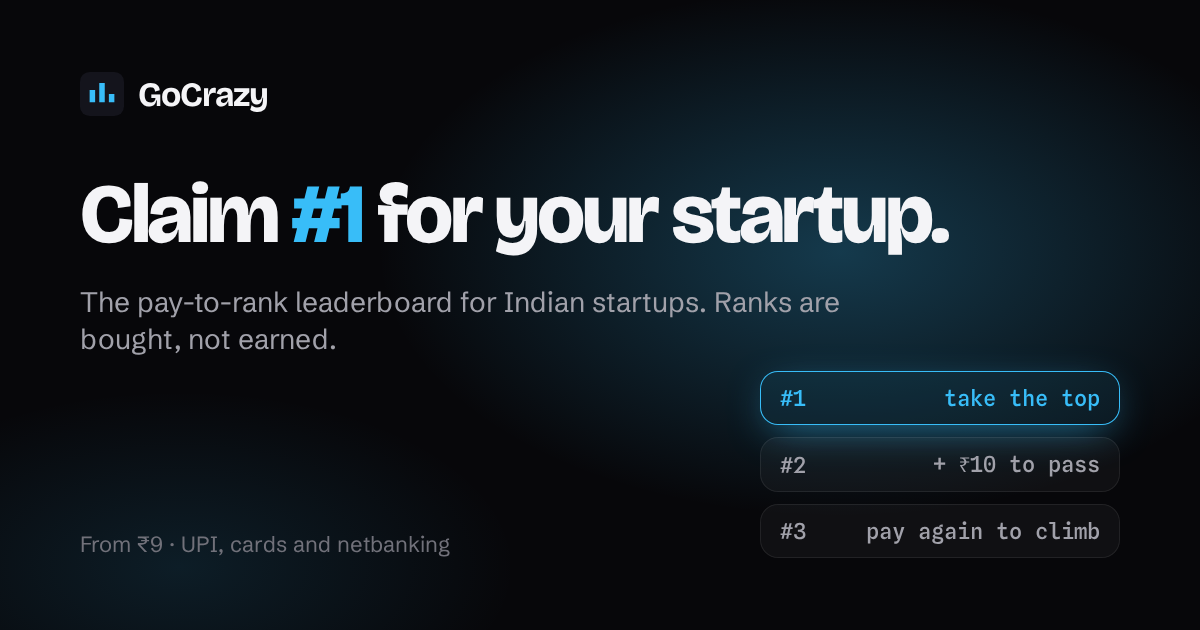
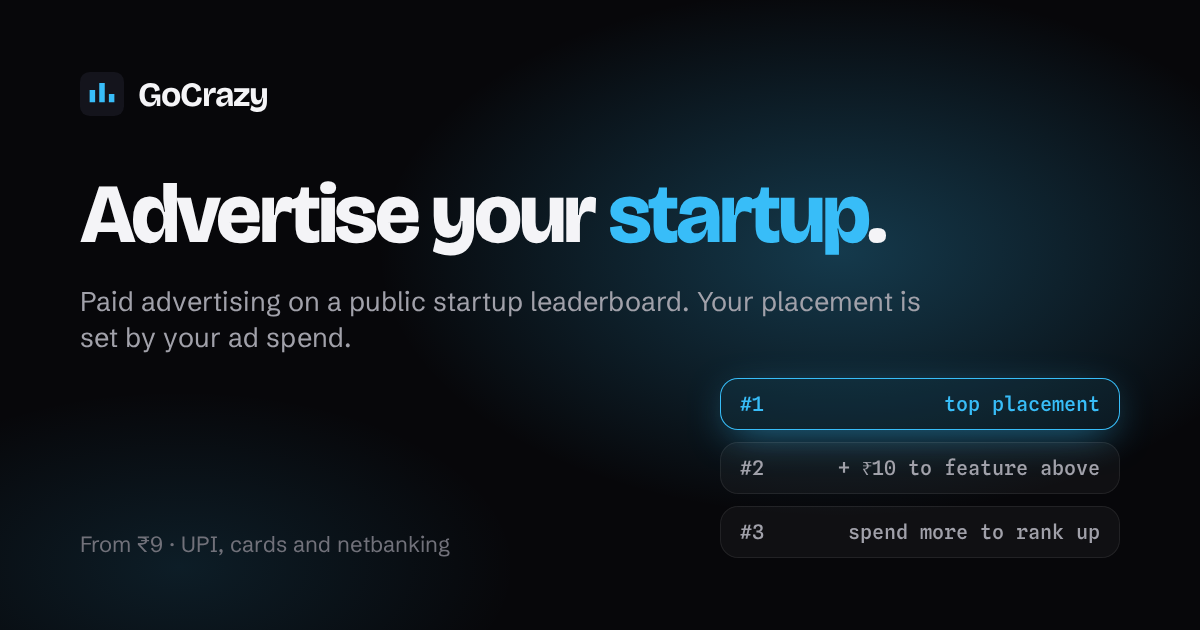
Reframe copy as paid advertising; install DataFast cookieless script
- All public copy now presents GoCrazy as a self-serve advertising / sponsored
  placement product rather than a contest or auction (hero "Feature at #1",
  "Feature now" CTA, "feature for ₹X", footer "placement set by advertising
  spend", About/Rules/FAQ/Terms, empty states, meta tags, Razorpay statement
  descriptor, share image). The pay-to-rank mechanic is unchanged.
- DataFast cookieless tracking script added to index.html (loads on every
  page); removed the old runtime script injector to avoid double-counting.

diff --git a/frontend/src/pages/Legal.tsx b/frontend/src/pages/Legal.tsx
@@ -23,7 +23,7 @@ export function Rules() {
   const { meta } = useAppData()
   const p = meta?.pricing
   return (
-    <Doc title="Rules" lede="Short, because the mechanism is simple: the total you have paid is your rank.">
+    <Doc title="Rules" lede="Short, because the mechanism is simple: your advertising spend sets your placement.">
       <section><h2>Boards</h2><ul>
         <li><strong>All-time</strong>: every captured payment for a listing, ever.</li>
         <li><strong>Today</strong>: payments since midnight IST. Resets daily.</li>
@@ -36,7 +36,7 @@ export function Rules() {
         <li>Ties go to the older listing. To take a rank you must pay strictly more than it.</li>
         <li>A new listing costs at least ₹{p ? rupeesPlain(p.min_new) : 9}. Taking any rank, including #1, costs that rank's current total plus ₹{p ? rupeesPlain(p.rank_bump) : 10}.</li>
         <li>Raising a listing you already own charges only the difference, minimum ₹{p ? rupeesPlain(p.min_raise) : 10}.</li>
-        <li>Nobody can take your rank by paying "the difference". They must beat your full total.</li>
+        <li>Nobody can feature above you by paying only "the difference". They must spend more than your full total.</li>
         <li>Rank is assigned when Razorpay confirms the capture, usually within seconds.</li>
       </ul></section>
       <section><h2>What you can list</h2><ul>
@@ -55,11 +55,11 @@ export function Rules() {
 }
 
 const FAQS: [string, ReactNode][] = [
-  ['How much does it cost?', 'A new listing starts at ₹9. The price of a specific rank is shown on every row ("claim for ₹X"). Taking any rank, including #1, costs its current total plus ₹10.'],
+  ['How much does it cost?', 'A new listing starts at ₹9. The price of a specific position is shown on every row ("feature for ₹X"). Featuring at any position, including #1, costs its current total plus ₹10.'],
   ['Do payments add up?', 'Yes. Everything you have ever paid for a listing counts. ₹100 now and ₹500 next month makes a ₹600 listing.'],
-  ['Can someone outrank me by paying ₹10 more?', 'They have to pay more than your full total, not the difference. Only you get to raise by the difference.'],
+  ['Can someone feature above me by paying ₹10 more?', 'They have to spend more than your full total, not just the difference. Only you can raise your own placement by the difference.'],
   ['What happens on a tie?', 'The older listing wins. The newer one needs to pay strictly more.'],
-  ['What is the Today board?', 'Spend since midnight IST. It resets daily, so a small budget can own a day even when All-time is locked by big spenders. Every day is archived on the Daily page.'],
+  ['What is the Today board?', 'Spend since midnight IST. It resets daily, so a small budget can lead a day even when the All-time board is held by bigger spenders. Every day is archived on the Daily page.'],
   ['What is the Deals board?', 'A separate list for discounts. You describe the offer (up to 100 characters) and optionally add a coupon code. Deals must be real.'],
   ['Can I list an idea with no website?', 'You need a working URL or an X handle. Idea-stage listings are fine, but they are public, so do not post anything you are not ready for others to see.'],
   ['How do I pay?', 'Through Razorpay: UPI, cards, netbanking and wallets. Prices are in rupees and include GST where it applies.'],
@@ -95,7 +95,7 @@ export function Terms() {
   const name = meta?.business.name ?? 'GoCrazy'
   const city = meta?.business.jurisdiction
   return (
-    <Doc title="Terms of service" lede="Plain-language terms. By claiming a rank you agree to them.">
+    <Doc title="Terms of service" lede="Plain-language terms. By featuring a listing you agree to them.">
       <section><h2>1. What this is</h2><p>{name} operates GoCrazy and sells paid placements on public leaderboards. Every listing is an advertisement and is labelled as one. We do not endorse any listed product.</p></section>
       <section><h2>2. Who can buy</h2><p>You must be 18 or older and able to enter a contract. If you list on behalf of a company, you confirm you are allowed to.</p></section>
       <section><h2>3. Payments and taxes</h2><p>Prices are in Indian rupees and processed by Razorpay. The price shown includes GST where it applies. You are responsible for any other taxes. Payments add to your listing's total and are never returned.</p></section>

diff --git a/frontend/src/pages/About.tsx b/frontend/src/pages/About.tsx
@@ -7,25 +7,25 @@ export function About() {
   return (
     <PageShell>
       <article className="mx-auto mt-10 max-w-[68ch]">
-        <h1 className="display balance text-[2.25rem] leading-tight font-bold sm:text-[2.75rem]">Ads are expensive. A rank is ₹9.</h1>
+        <h1 className="display balance text-[2.25rem] leading-tight font-bold sm:text-[2.75rem]">Advertising is expensive. A placement is ₹9.</h1>
         <div className="mt-6 space-y-4 text-[15.5px] leading-relaxed text-ink-2">
-          <p>GoCrazy is a public leaderboard where Indian startups buy their place. There is no jury, no upvotes and no algorithm. Whoever has paid the most sits at the top, and every rupee you ever paid keeps counting.</p>
-          <p>Early-stage founders get the worst deal in advertising: small budgets, auction prices set by large brands, and no proof that anyone saw the ad. On GoCrazy the proof is the board itself. Every row shows its clicks, every rank shows its price, and anyone can see exactly what it costs to outrank anyone else.</p>
-          <p>It is built for India: prices in rupees, UPI, cards and netbanking through Razorpay, and a Today board that resets at midnight IST so a small budget can own a day even when the All-time board is held by larger spenders.</p>
+          <p>GoCrazy is a public directory where Indian startups buy advertising placement. There is no jury, no upvotes and no algorithm. Placement is set by advertising spend: the more you spend, the higher your listing features, and every rupee you spend keeps counting.</p>
+          <p>Early-stage founders get the worst deal in advertising: small budgets, prices set by large brands, and no proof that anyone saw the ad. On GoCrazy the proof is the board itself. Every row shows its clicks and its price, so anyone can see exactly what a placement costs.</p>
+          <p>It is built for India: prices in rupees, UPI, cards and netbanking through Razorpay, and a Today board that resets at midnight IST so a small budget can lead a day even when the All-time board is held by larger spenders.</p>
         </div>
         <Reveal className="mt-10">
           <h2 className="display text-xl font-semibold">How the money works</h2>
           <ul className="mt-3 space-y-2 text-[15px] text-ink-2">
             <li>A new listing starts at ₹9. Taking any rank, including #1, costs that rank's current total plus ₹10.</li>
-            <li>Payments add up. ₹100 then ₹200 then ₹300 is a ₹600 listing. Raising your own rank charges only the difference.</li>
-            <li>Rank is assigned the moment Razorpay confirms the payment. No refunds. Full rules on the <Link to="/rules" className="text-accent underline-offset-4 hover:underline">Rules page</Link>.</li>
+            <li>Advertising spend adds up. ₹100 then ₹200 then ₹300 is a ₹600 listing. Raising your own placement charges only the difference.</li>
+            <li>Your placement goes live the moment Razorpay confirms the payment. No refunds. Full rules on the <Link to="/rules" className="text-accent underline-offset-4 hover:underline">Rules page</Link>.</li>
           </ul>
         </Reveal>
         <Reveal className="mt-10">
           <h2 className="display text-xl font-semibold">Transparent numbers</h2>
           <p className="mt-3 text-[15px] text-ink-2">Site traffic is measured by independent analytics and published openly. Clicks on every listing are counted by our own redirect and tagged with <code className="font-mono text-[13px]">utm_source=gocrazy</code>, so you can verify the traffic in your own analytics too.</p>
         </Reveal>
-        <div className="mt-10"><Link to="/"><Button size="lg">Claim your rank</Button></Link></div>
+        <div className="mt-10"><Link to="/"><Button size="lg">Feature your startup</Button></Link></div>
       </article>
       <StatsStrip />
     </PageShell>

diff --git a/frontend/src/pages/Daily.tsx b/frontend/src/pages/Daily.tsx
@@ -13,12 +13,12 @@ export function Daily() {
   return (
     <PageShell>
       <h1 className="display mt-10 text-center text-[2.25rem] font-bold sm:text-[2.75rem]">One board per day</h1>
-      <p className="mx-auto mt-2 max-w-xl text-center text-[14.5px] text-ink-2">Each IST day gets its own frozen leaderboard of that day's spend. Whales can own All-time; today is anyone's.</p>
+      <p className="mx-auto mt-2 max-w-xl text-center text-[14.5px] text-ink-2">Each IST day has its own board of that day's advertising spend. All-time rewards the biggest spenders; a small budget can lead a single day.</p>
       <div className="mt-10 space-y-3">
         {days !== null && days.length === 0 && (
           <div className="rounded-2xl bg-surface px-6 py-14 text-center hairline">
             <p className="display text-xl font-semibold">Today's board is open.</p>
-            <p className="mt-2 text-[13.5px] text-ink-2">The first claim of the day takes #1. <Link to="/today" className="text-accent underline-offset-4 hover:underline">Claim today's top spot</Link>.</p>
+            <p className="mt-2 text-[13.5px] text-ink-2">The first listing of the day features at #1. <Link to="/today" className="text-accent underline-offset-4 hover:underline">Feature at the top today</Link>.</p>
           </div>
         )}
         {(days ?? []).map((d, i) => (
@@ -29,7 +29,7 @@ export function Daily() {
                 {d.live && resets && <span className="flex items-center gap-2 text-[12px] text-accent"><span className="size-1.5 animate-pulse rounded-full bg-accent" />live · resets in <Countdown to={resets} /></span>}
                 <span className="ml-auto text-[12.5px] font-medium text-ink-3"><span className="tnum text-ink">{count(d.count)}</span> {d.count === 1 ? 'listing' : 'listings'} · <span className="tnum font-mono text-ink">{rupees(d.revenue_paise)}</span></span>
               </div>
-              {d.top.length === 0 ? <p className="mt-3 text-[13px] font-medium text-ink-3">No ranks claimed{d.live ? ' yet today' : ' that day'}.</p> : (
+              {d.top.length === 0 ? <p className="mt-3 text-[13px] font-medium text-ink-3">No listings featured{d.live ? ' yet today' : ' that day'}.</p> : (
                 <ol className="mt-3 grid gap-2 sm:grid-cols-3">
                   {d.top.map(l => (
                     <li key={l.slug}><Link to={`/product/${l.slug}`} className="flex items-center gap-2.5 rounded-xl px-2 py-1.5 transition hover:bg-accent-subtle"><span className="tnum font-mono text-[12px] text-accent">#{l.rank}</span><img src={l.favicon ?? ''} alt="" className="size-7 rounded-lg bg-line-strong" loading="lazy" /><span className="min-w-0 flex-1 truncate text-[13px]">{l.title}</span><span className="tnum font-mono text-[12px] text-ink-2">{rupees(l.total_paise)}</span></Link></li>

diff --git a/frontend/src/components/ClaimHero.tsx b/frontend/src/components/ClaimHero.tsx
@@ -150,7 +150,7 @@ export const ClaimHero = forwardRef<ClaimHeroHandle, Props>(function ClaimHero(
           orderId: claim.order_id,
           amountPaise: claim.amount_paise,
           title: claim.listing.title,
-          description: `Rank for ${claim.listing.domain} on GoCrazy`,
+          description: `GoCrazy advertising – ${claim.listing.domain}`,
           accentHex: accent.hex,
           email: email.trim() || undefined,
           onDismiss: () => setCheckout(null),
@@ -194,7 +194,7 @@ export const ClaimHero = forwardRef<ClaimHeroHandle, Props>(function ClaimHero(
     <section id="claim" className="scroll-mt-24 pt-10 pb-4">
       {/* Hero Stepper Headline */}
       <h1 className="display text-lift balance text-center text-[2.2rem] leading-[1.08] font-bold tracking-tight text-ink sm:text-[2.9rem] md:text-[3.5rem]">
-        Claim{' '}
+        Feature at{' '}
         <AnimatePresence mode="popLayout" initial={false}>
           <motion.span
             key={rank}
@@ -285,7 +285,7 @@ export const ClaimHero = forwardRef<ClaimHeroHandle, Props>(function ClaimHero(
             className="sm:w-38"
             data-sweep={valid ? '1' : '0'}
           >
-            {busy ? <Loader2 className="size-4.5 animate-spin" /> : 'Claim rank'}
+            {busy ? <Loader2 className="size-4.5 animate-spin" /> : 'Feature now'}
           </Button>
         </div>
 
@@ -422,7 +422,7 @@ export const ClaimHero = forwardRef<ClaimHeroHandle, Props>(function ClaimHero(
               <Link to="/terms" className="text-ink underline underline-offset-4 hover:text-accent">
                 Terms
               </Link>
-              <span className="text-accent" aria-hidden> *</span>. Paid placement, rank is bought.
+              <span className="text-accent" aria-hidden> *</span>. Paid advertising placement, no refunds.
             </span>
           </label>
           <input
@@ -456,8 +456,8 @@ export const ClaimHero = forwardRef<ClaimHeroHandle, Props>(function ClaimHero(
                 </span>
               ) : (
                 <span className="text-ink-2">
-                  ₹{rupeesPlain(amount)} lands you at <span className="text-accent font-semibold">#{quote.rank}</span>
-                  {where}. Ranks add up: pay again anytime to climb.
+                  ₹{rupeesPlain(amount)} features you at <span className="text-accent font-semibold">#{quote.rank}</span>
+                  {where}. Ad spend adds up: advertise again anytime to rank higher.
                 </span>
               )
             )

diff --git a/frontend/index.html b/frontend/index.html
@@ -7,19 +7,19 @@
   <meta name="theme-color" content="#07070a" />
   <title>GoCrazy</title>
   <meta name="description"
-    content="The public leaderboard where Indian startups buy their rank. Claim a spot from ₹9, pay again to climb, and see exactly what every position costs." />
+    content="GoCrazy is a self-serve advertising platform where Indian startups buy featured placement on a public directory. Feature your startup from ₹9, increase your spend to rank higher, and see exactly what every position costs." />
   <meta property="og:type" content="website" />
   <meta property="og:site_name" content="GoCrazy" />
-  <meta property="og:title" content="GoCrazy · the pay-to-rank leaderboard for Indian startups" />
+  <meta property="og:title" content="GoCrazy · advertise your startup on a public leaderboard" />
   <meta property="og:description"
-    content="Claim a spot from ₹9, pay again to climb, and see exactly what every position costs." />
+    content="Feature your startup from ₹9, increase your spend to rank higher, and see what every position costs." />
   <meta property="og:image" content="/og.png" />
   <meta property="og:image:width" content="1200" />
   <meta property="og:image:height" content="630" />
   <meta name="twitter:card" content="summary_large_image" />
-  <meta name="twitter:title" content="GoCrazy · the pay-to-rank leaderboard for Indian startups" />
+  <meta name="twitter:title" content="GoCrazy · advertise your startup on a public leaderboard" />
   <meta name="twitter:description"
-    content="Claim a spot from ₹9, pay again to climb, and see exactly what every position costs." />
+    content="Feature your startup from ₹9, increase your spend to rank higher, and see what every position costs." />
   <meta name="twitter:image" content="/og.png" />
   <link rel="apple-touch-icon" href="/favicon.svg" />
   <link rel="icon" href="/favicon.svg" type="image/svg+xml" />
@@ -28,6 +28,12 @@
   <link
     href="https://fonts.googleapis.com/css2?family=Bricolage+Grotesque:opsz,wght@12..96,400..800&family=Schibsted+Grotesk:wght@400..700&family=Spline+Sans+Mono:wght@400..600&display=swap"
     rel="stylesheet" />
+  <!-- DataFast analytics (cookieless). Loads on every page via the app shell. -->
+  <script
+    defer
+    data-website-id="dfid_Ah4BhqUS8PmdW5Mw8XwOv"
+    data-domain="gocrazyy.vercel.app"
+    src="https://datafa.st/js/script.cookieless.js"></script>
 </head>
 
 <body>

diff --git a/frontend/src/pages/Home.tsx b/frontend/src/pages/Home.tsx
@@ -62,7 +62,7 @@ export function Home({ tab }: { tab: Tab }) {
         <p className="mt-5 flex flex-wrap items-center justify-center gap-x-2 gap-y-1 text-center text-[13px] font-medium text-ink-2">Every deal must offer a real discount.{meta?.deals_closes_at && <> This board closes in <Countdown to={meta.deals_closes_at} /></>}</p>
       )}
       {tab === 'today' && (
-        <p className="mt-5 flex items-center justify-center gap-2 text-center text-[13px] font-medium text-ink-2">Spend since midnight IST. Resets in <Countdown to={nextMidnightIST()} /></p>
+        <p className="mt-5 flex items-center justify-center gap-2 text-center text-[13px] font-medium text-ink-2">Ad spend since midnight IST. Resets in <Countdown to={nextMidnightIST()} /></p>
       )}
       <ClaimHero ref={hero} board={board} category={slug} takeTopPaise={takeTop} onPaid={() => { load(); refreshStats() }} onAmountChange={setOffer} />
 
@@ -101,11 +101,11 @@ function Skeleton() {
 }
 
 function Empty({ tab, catName }: { tab: Tab; catName?: string }) {
-  const msg = tab === 'today' ? 'Nobody has claimed a rank since midnight IST.' : tab === 'deals' ? `Nobody has listed a deal${catName ? ` in ${catName}` : ''} yet.` : `Nothing listed${catName ? ` in ${catName}` : ''} yet.`
+  const msg = tab === 'today' ? 'No listings featured since midnight IST.' : tab === 'deals' ? `Nobody has listed a deal${catName ? ` in ${catName}` : ''} yet.` : `Nothing listed${catName ? ` in ${catName}` : ''} yet.`
   return (
     <div className="rounded-2xl bg-surface px-6 py-14 text-center hairline">
       <p className="display text-xl font-semibold">{msg}</p>
-      <p className="mt-2 text-[13.5px] text-ink-2">The first claim takes #1 at the minimum price. <a href="#claim" className="text-accent underline-offset-4 hover:underline">Claim it</a> or <Link to="/categories" className="text-ink underline-offset-4 hover:underline">explore categories</Link>.</p>
+      <p className="mt-2 text-[13.5px] text-ink-2">The first listing features at #1 from the minimum price. <a href="#claim" className="text-accent underline-offset-4 hover:underline">Feature yours</a> or <Link to="/categories" className="text-ink underline-offset-4 hover:underline">explore categories</Link>.</p>
     </div>
   )
 }

diff --git a/frontend/src/pages/Product.tsx b/frontend/src/pages/Product.tsx
@@ -174,17 +174,17 @@ export function Product() {
               {p.overall.rank && (
                 <div>
                   <dt className="font-semibold text-ink">
-                    How much does it cost to outrank {p.title.split(' · ')[0]}?
+                    How much to feature above {p.title.split(' · ')[0]}?
                   </dt>
                   <dd className="mt-1 text-ink-2">
-                    {p.title.split(' · ')[0]} has paid{' '}
+                    {p.title.split(' · ')[0]} has spent{' '}
                     <span className="tnum font-mono text-ink font-semibold">{rupees(p.total_paise)}</span> in total
                     and sits at <span className="text-accent font-semibold">#{p.overall.rank}</span> of {p.overall.of}{' '}
-                    overall. Taking that rank costs{' '}
+                    overall. Featuring above it costs{' '}
                     <span className="tnum font-mono text-ink font-semibold">{rupees(outrank!)}</span> right now (
                     the current total plus ₹10).{' '}
                     <Link to="/" className="text-accent underline underline-offset-4 hover:brightness-125">
-                      Claim it on the board
+                      Feature your startup
                     </Link>
                     .
                   </dd>
@@ -256,7 +256,7 @@ export function Product() {
             <div className="tnum font-mono text-xl font-bold">{rupees(p.total_paise)}</div>
             {outrank && (
               <Link to={`/?claim=${outrank}`}>
-                <Button className="mt-4.5 w-full">Outrank for {rupees(outrank)}</Button>
+                <Button className="mt-4.5 w-full">Feature above for {rupees(outrank)}</Button>
               </Link>
             )}
           </div>

diff --git a/frontend/src/pages/Categories.tsx b/frontend/src/pages/Categories.tsx
@@ -14,7 +14,7 @@ export function Categories() {
   return (
     <PageShell>
       <h1 className="display mt-10 text-center text-[2.25rem] font-bold sm:text-[2.75rem]">Every category has its own #1</h1>
-      <p className="mx-auto mt-2 max-w-xl text-center text-[14.5px] text-ink-2">Each board prices its top spot separately. Take #1 in a quiet category for a few hundred rupees, or fight for the hot ones.</p>
+      <p className="mx-auto mt-2 max-w-xl text-center text-[14.5px] text-ink-2">Each category is priced separately. Feature at the top of a quiet category for a few hundred rupees, or in the busiest ones.</p>
 
       {hotCards.length > 0 && (
         <Reveal className="mt-10">
@@ -37,7 +37,7 @@ export function Categories() {
             <div className="h-full rounded-2xl bg-surface p-4 hairline transition hover:bg-raised">
               <Link to={`/category/${c.slug}`} className="flex items-center gap-2 font-semibold hover:text-accent"><CatIcon name={c.icon} className="size-4 text-accent" />{c.name}</Link>
               {c.top.length === 0 ? (
-                <p className="mt-3 text-[12.5px] font-medium text-ink-3">#1 is open. <Link to={`/category/${c.slug}`} className="text-accent hover:underline">Claim it for {rupees(c.take_top_paise)}</Link>.</p>
+                <p className="mt-3 text-[12.5px] font-medium text-ink-3">Top spot open. <Link to={`/category/${c.slug}`} className="text-accent hover:underline">Feature here for {rupees(c.take_top_paise)}</Link>.</p>
               ) : (
                 <ol className="mt-3 space-y-1">
                   {c.top.map(l => (

diff --git a/frontend/src/components/CheckoutDialog.tsx b/frontend/src/components/CheckoutDialog.tsx
@@ -43,8 +43,8 @@ export function CheckoutDialog({ state, onClose, onMockPay }: { state: CheckoutS
             {state.kind === 'done' && (
               <div className="mt-5 text-center">
                 <div className="mx-auto flex size-14 items-center justify-center rounded-full bg-accent-muted text-accent shadow-[var(--accent-glow)]"><Trophy className="size-6" /></div>
-                <p className="display mt-4 text-2xl font-bold">You're <span className="text-accent">#{state.result.rank ?? '—'}</span> of {state.result.of}</p>
-                <p className="mt-1 text-[13.5px] text-ink-2">Total paid so far: <span className="tnum font-mono text-ink">{rupees(state.result.total_paise)}</span>. Pay again any time to climb.</p>
+                <p className="display mt-4 text-2xl font-bold">Your ad is live at <span className="text-accent">#{state.result.rank ?? '—'}</span> of {state.result.of}</p>
+                <p className="mt-1 text-[13.5px] text-ink-2">Ad spend so far: <span className="tnum font-mono text-ink">{rupees(state.result.total_paise)}</span>. Advertise again any time to rank higher.</p>
                 <div className="mt-5 flex gap-2">
                   <Button variant="outline" className="flex-1" onClick={onClose}>Back to board</Button>
                   <Link to={`/product/${state.result.slug}`} onClick={onClose} className="flex-1"><Button className="w-full">See your listing</Button></Link>

diff --git a/frontend/src/lib/datafast.ts b/frontend/src/lib/datafast.ts
@@ -1,16 +1,10 @@
-/** DataFast tracking script. The website id is public; the API key never reaches the browser. */
-export function installDataFast(websiteId: string | null, domain: string | null) {
-  if (!websiteId || document.getElementById('datafast-script')) return
-  const s = document.createElement('script')
-  s.id = 'datafast-script'
-  s.defer = true
-  s.src = 'https://datafa.st/js/script.js'
-  s.dataset.websiteId = websiteId
-  if (domain) s.dataset.domain = domain
-  document.head.appendChild(s)
-}
+/**
+ * The DataFast tracking script is loaded statically from index.html (cookieless build).
+ * Only the public website id reaches the browser; the server-side API key never does.
+ */
 
-/** Visitor id the tracking script sets, attached to the Razorpay order so revenue is attributed. */
+/** Visitor id the tracking script sets, attached to the Razorpay order so revenue is attributed.
+ *  In cookieless mode this cookie is usually absent, so attribution falls back to null. */
 export function dataFastVisitorId(): string | null {
   const m = document.cookie.match(/(?:^|;\s*)datafast_visitor_id=([^;]+)/)
   return m ? decodeURIComponent(m[1]) : null

diff --git a/frontend/src/lib/app-data.tsx b/frontend/src/lib/app-data.tsx
@@ -1,6 +1,5 @@
 import { createContext, useContext, useEffect, useState, type ReactNode } from 'react'
 import { api, type Category, type Meta, type Stats } from './api'
-import { installDataFast } from './datafast'
 
 type Ctx = { meta: Meta | null; categories: Category[]; stats: Stats | null; refreshStats: () => void }
 const C = createContext<Ctx>({ meta: null, categories: [], stats: null, refreshStats: () => {} })
@@ -11,7 +10,7 @@ export function AppDataProvider({ children }: { children: ReactNode }) {
   const [stats, setStats] = useState<Stats | null>(null)
   const refreshStats = () => { api.stats().then(setStats).catch(() => {}) }
   useEffect(() => {
-    api.meta().then(m => { setMeta(m); installDataFast(m.datafast_website_id, m.datafast_domain) }).catch(() => {})
+    api.meta().then(setMeta).catch(() => {})
     api.categories().then(r => setCats(r.categories.map(({ slug, name, icon }) => ({ slug, name, icon })))).catch(() => {})
     refreshStats()
     const id = setInterval(refreshStats, 60_000)

diff --git a/frontend/src/components/Footer.tsx b/frontend/src/components/Footer.tsx
@@ -10,7 +10,7 @@ export function Footer() {
   return (
     <footer className="mx-auto mt-20 w-full max-w-[1120px] px-4 pb-10 text-center text-[12.5px] font-medium text-ink-3 sm:px-6">
       <div className="border-t border-line pt-8">
-        <p>Every placement on GoCrazy is a paid advertisement. Ranks are bought, not earned.</p>
+        <p>Every placement on GoCrazy is a paid advertisement. Your placement is set by your advertising spend.</p>
         <nav aria-label="Footer" className="mt-2 flex flex-wrap justify-center gap-x-3 gap-y-1">
           {LINKS.map(([to, l]) => <Link key={to} to={to} className="text-ink-2 hover:text-ink">{l}</Link>)}
           {stats?.public_stats_url && <a href={stats.public_stats_url} target="_blank" rel="noreferrer" className="text-ink-2 hover:text-ink">Live stats</a>}
